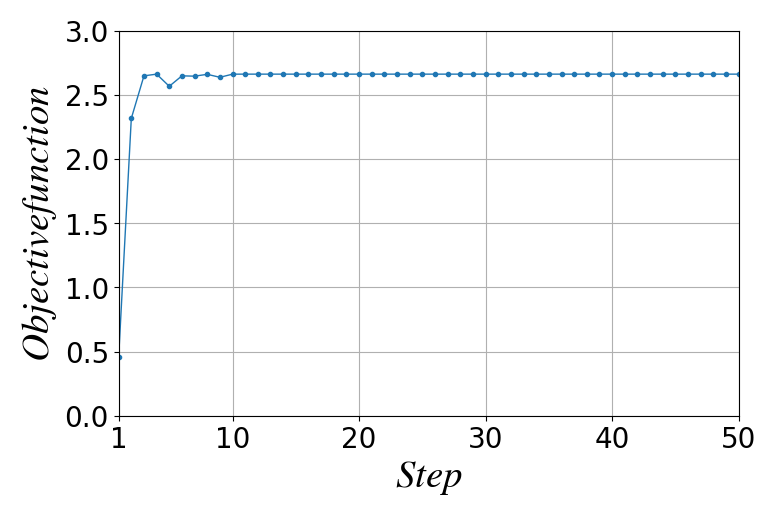
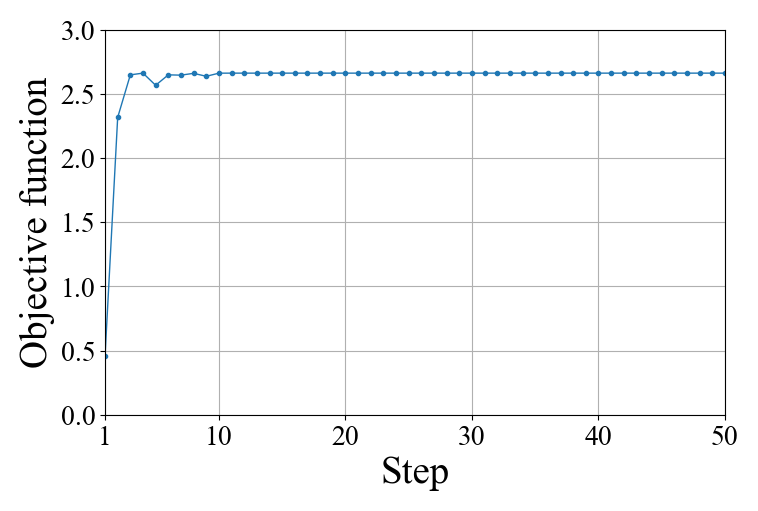
plotの修正

Changed region(s): [[0.0303, 0.0294, 0.971, 0.8806], [0.4855, 0.8806, 0.6069, 0.9687]]

diff --git a/01_results/plot_setting.py b/01_results/plot_setting.py
@@ -22,8 +22,8 @@ index_col = None
 # index_col = 0
 
 # ラベル
-xlabel = "$Step$"
-ylabel = "$Objective function$"
+xlabel = "Step"
+ylabel = "Objective function"
 
 # ticks
 y_ticks = "auto"
